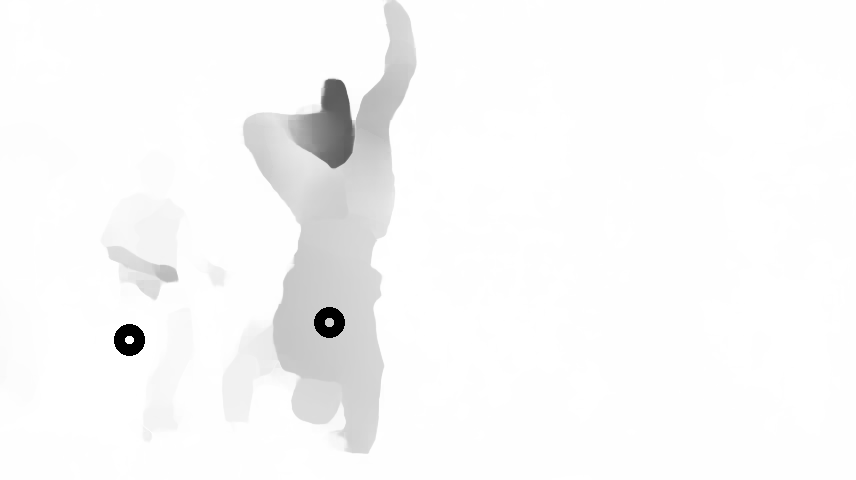
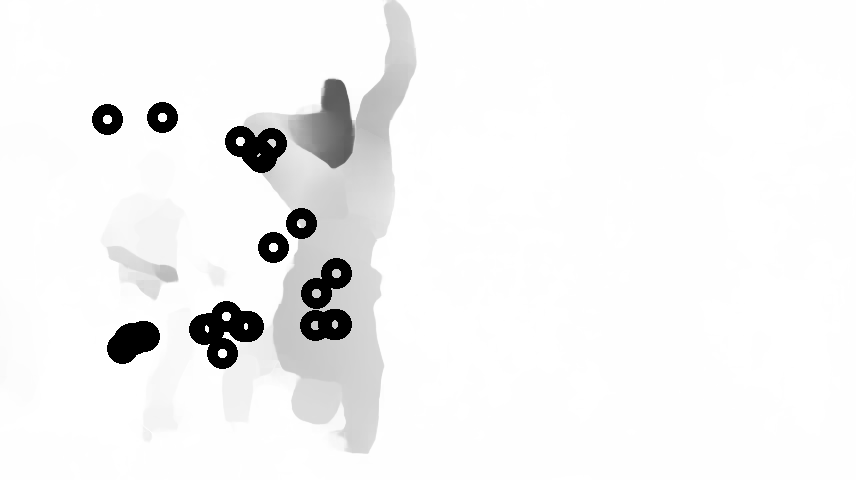
successfully storing meanshift sim vid

diff --git a/raft/meanshift.py b/raft/meanshift.py
@@ -48,19 +48,18 @@ def POC():
 
 
 def mark_centroids(grayscale, cluster_centers, img_name_suff=""):
-    grayscale_w_centroids = grayscale
+    w_centroids = cv2.cvtColor(grayscale, cv2.COLOR_GRAY2RGB)
+
     for (r, c) in cluster_centers:
         r, c = round(r), round(c)
-        grayscale_w_centroids = cv2.circle(
-            grayscale_w_centroids, (c, r), radius=3, color=(0, 0, 255), thickness=-1
+        w_centroids = cv2.circle(
+            w_centroids, (c, r), radius=3, color=(0, 0, 255), thickness=-1
         )
 
-    cv2.imwrite(
-        f"centroid_imgs/grayscale_centroids{img_name_suff}.png", grayscale_w_centroids
-    )
+    return w_centroids
 
 
-def mean_shift_custom(image, n_points=50, n_iter=50, radius=50):
+def mean_shift_custom(image, n_points=50, n_iter=5, radius=50, store_path=None):
     image = np.array(image)
     h, w = image.shape
 
@@ -84,7 +83,9 @@ def mean_shift_custom(image, n_points=50, n_iter=50, radius=50):
 
     # print(f"points: {points}")
 
-    mark_centroids(copy.deepcopy(image), points, img_name_suff=f"-0")
+    all_frames = []
+    frame0 = mark_centroids(copy.deepcopy(image), points, img_name_suff=f"-0")
+    all_frames.append(frame0)
 
     cur_iter = 1
 
@@ -112,23 +113,7 @@ def mean_shift_custom(image, n_points=50, n_iter=50, radius=50):
                 min_c, max_c = max(0, c - radius), min(w - 1, c + radius)
 
                 # 255 => white; # 0 => black
-                # b = 255 - np.array(image[min_r : max_r + 1, min_c : max_c + 1]).flatten()
-
-                # b = 255 - np.array(
-                #     [
-                #         image[surr_r, surr_c]
-                #         for surr_r in range(min_r, max_r + 1)
-                #         for surr_c in range(min_c, max_c + 1)
-                #     ]
-                # )
-
-                x = np.array(
-                    [
-                        image[surr_r, surr_c]
-                        for surr_r in range(min_r, max_r + 1)
-                        for surr_c in range(min_c, max_c + 1)
-                    ]
-                )
+                x = np.array(image[min_r : max_r + 1, min_c : max_c + 1]).flatten()
 
                 # b = np.e ** (-x + 4)
 
@@ -182,11 +167,23 @@ def mean_shift_custom(image, n_points=50, n_iter=50, radius=50):
                     points_radii[i] = radius_orig
                 else:
                     points_radii[i] *= 2
+            else:
+                points_radii[i] *= 2
 
             # if the sum is 0 that means all surrounding pixels are pure white 255. For now if that's the case don't update points which makes sense logically speaking
 
-        mark_centroids(copy.deepcopy(image), points, img_name_suff=f"-{cur_iter}")
+        frame = mark_centroids(
+            copy.deepcopy(image), points, img_name_suff=f"-{cur_iter}"
+        )
+        all_frames.append(frame)
 
         cur_iter += 1
+
+    if store_path is not None:
+        out = cv2.VideoWriter(store_path, cv2.VideoWriter_fourcc(*"DIVX"), 15, (w, h))
+
+        for frame in all_frames:
+            out.write(frame)
+        out.release()
 
     return points

diff --git a/raft/test.py b/raft/test.py
@@ -2,7 +2,7 @@ import numpy as np
 
 a = np.array([[1, 2], [3, 4], [5, 6], [7, 8]])
 
-b = np.array([1, 2, 3, 4]) * 10
+b = np.array([1, 2, 3, 4])
 
 c = sum(a * np.expand_dims(b, axis=1)) / sum(b)
 
